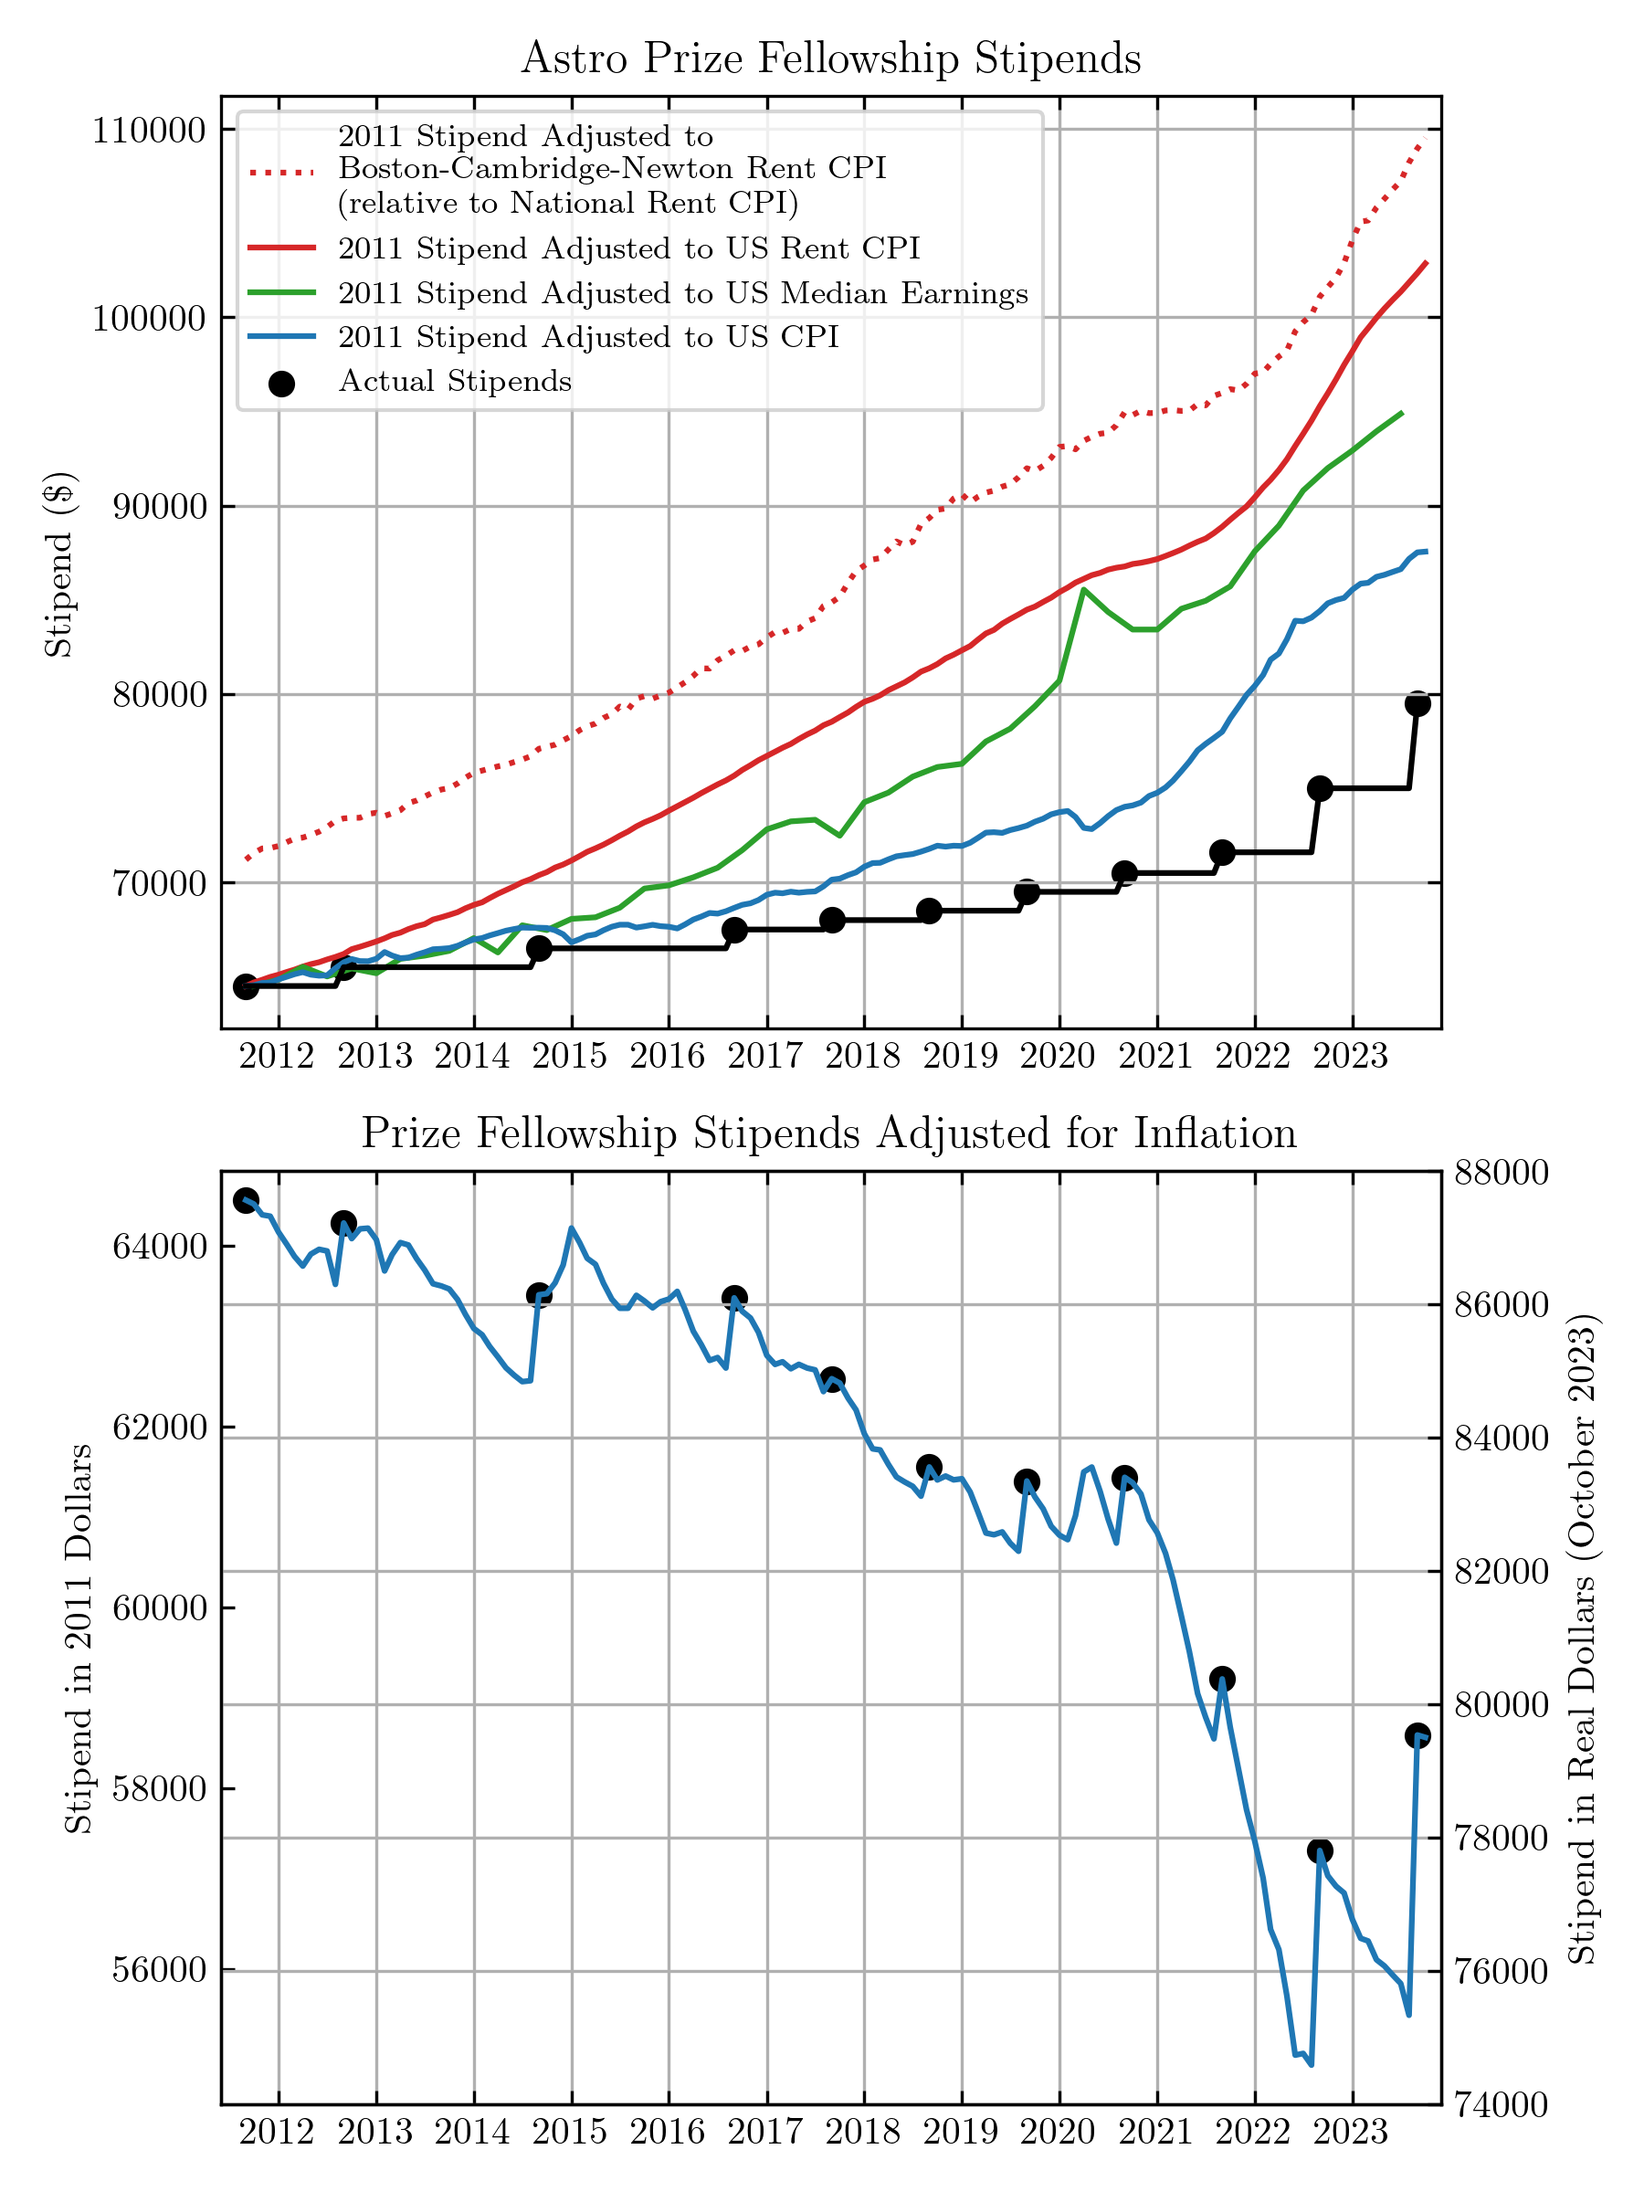
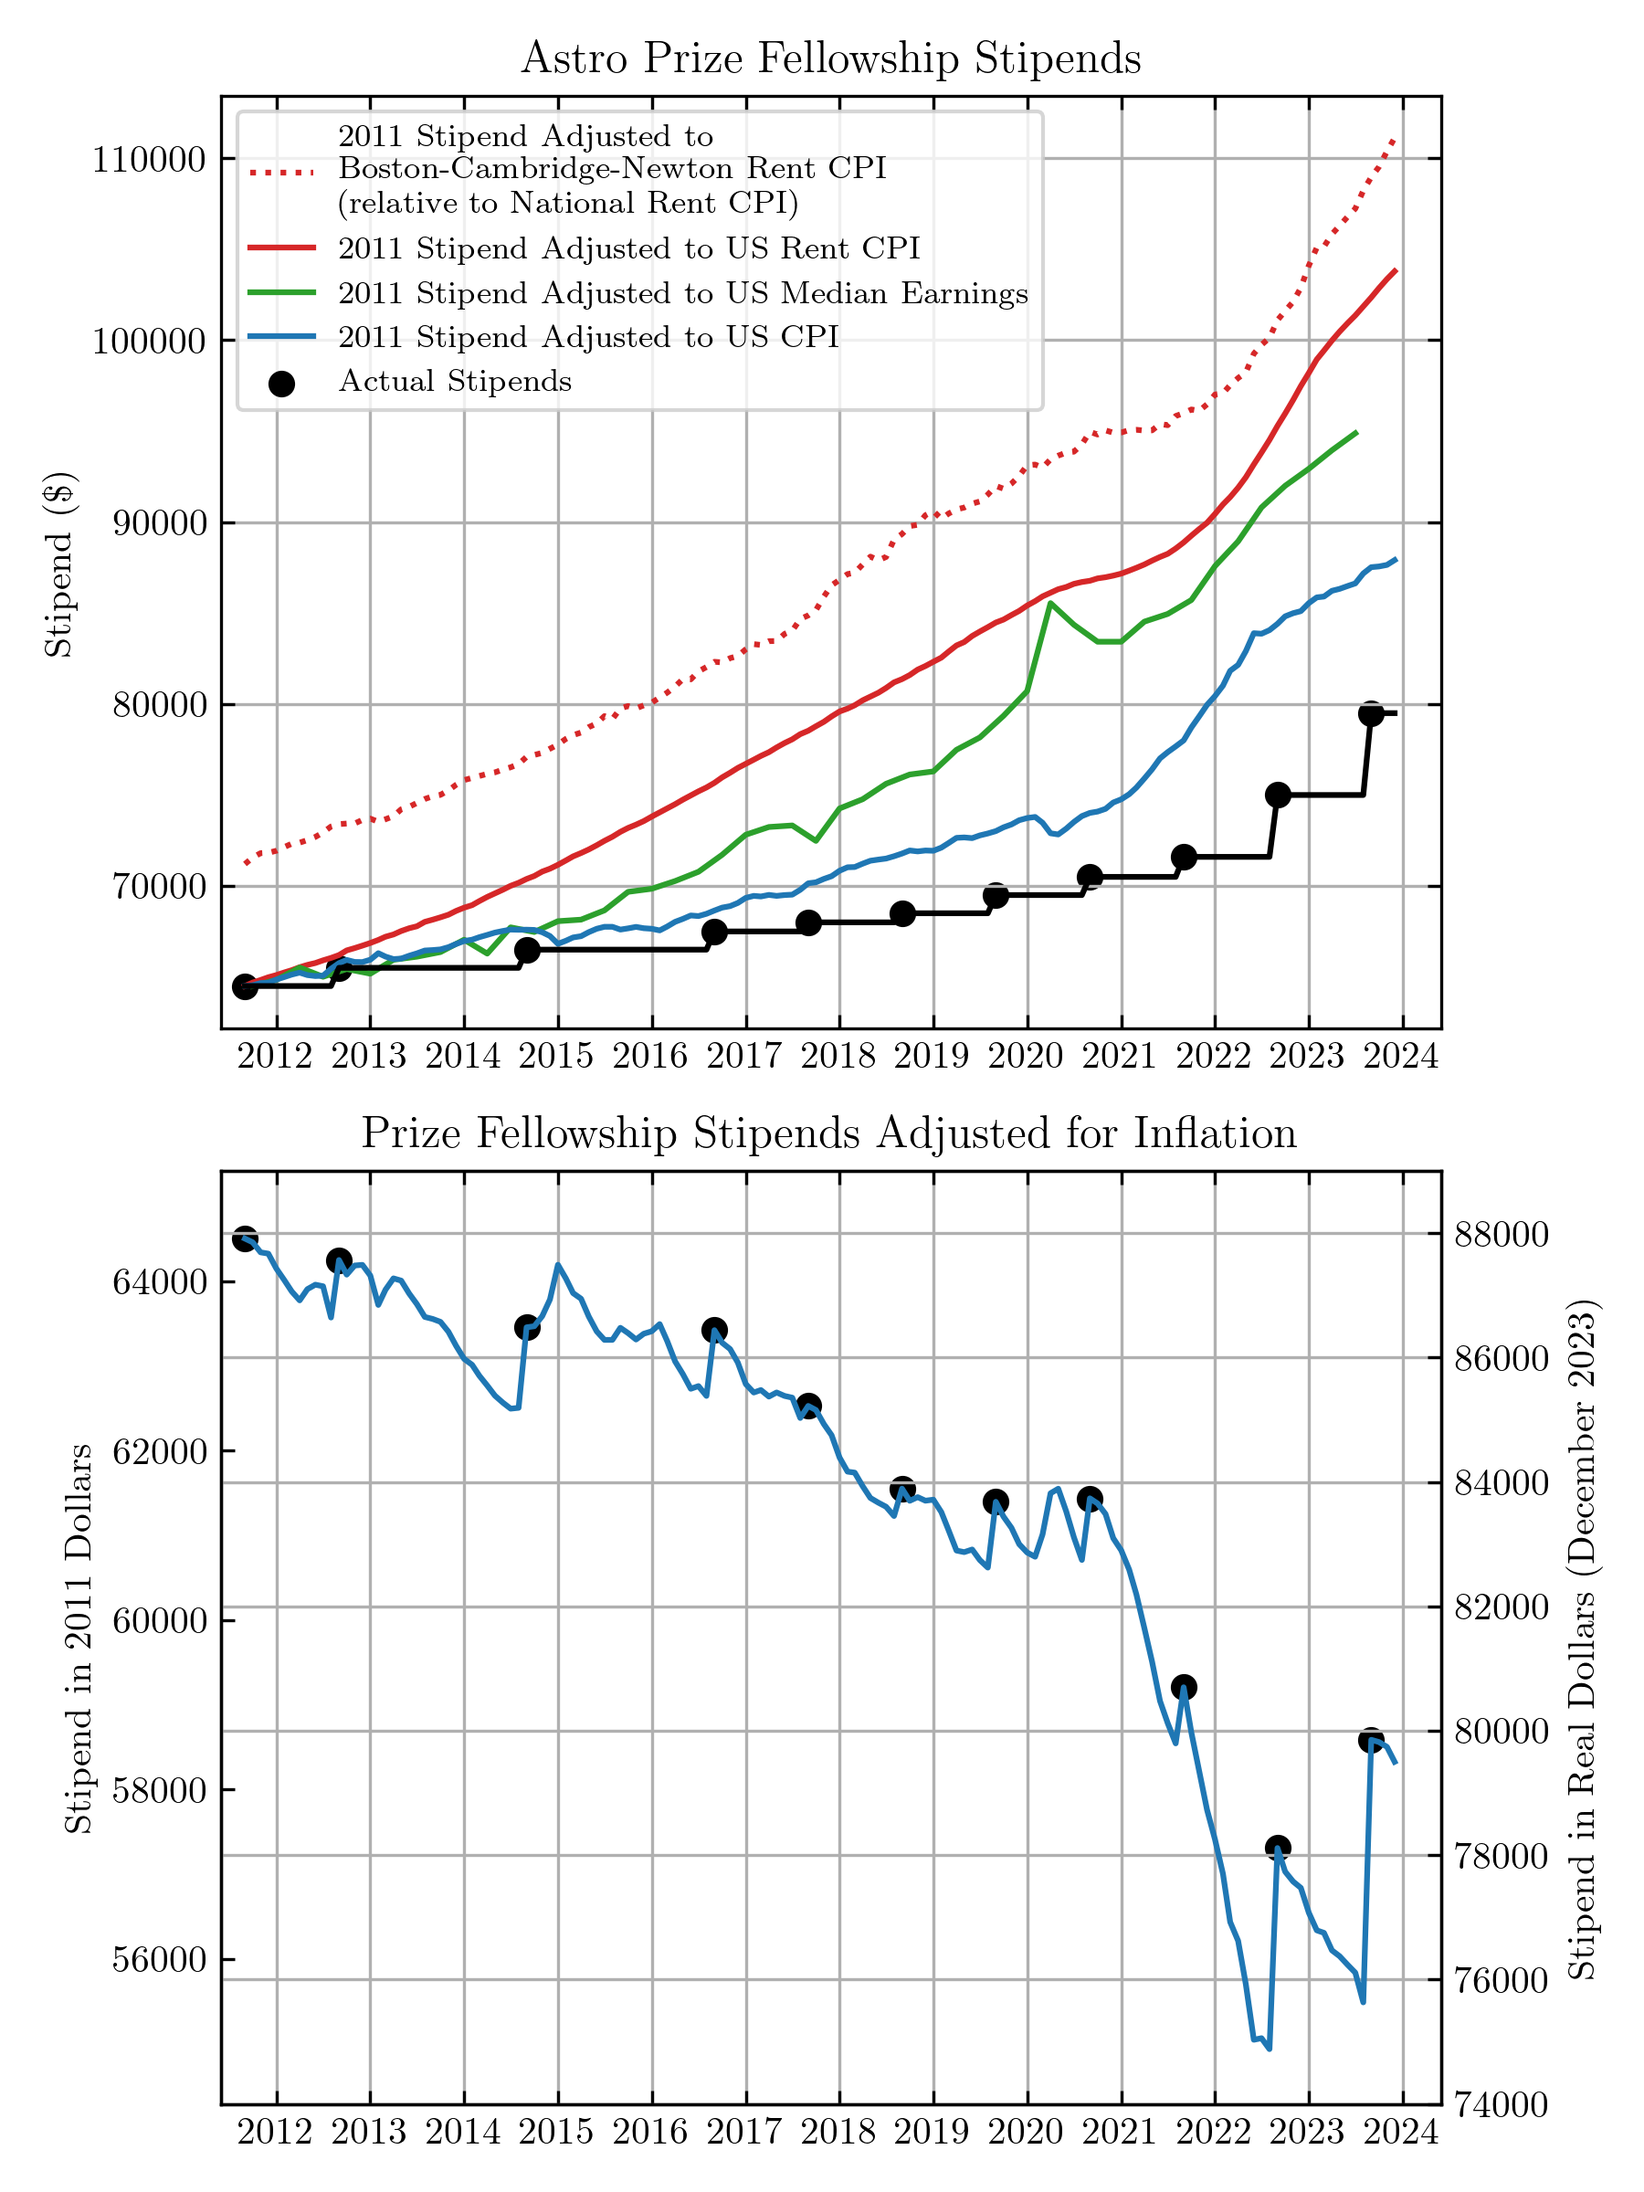
update for December CPI report

diff --git a/plot.py b/plot.py
@@ -83,11 +83,11 @@ ax[0].set_ylabel('Stipend (\$)')
 
 
 ax[1].set_title('Prize Fellowship Stipends Adjusted for Inflation')
-ymax = 88000
+ymax = 89000
 ymin = 74000
 ax2 = ax[1].twinx()
 ax2.set_ylim(ymin,ymax)
-ax2.set_ylabel('Stipend in Real Dollars (October 2023)')
+ax2.set_ylabel('Stipend in Real Dollars (December 2023)')
 ax[1].grid(False,axis='y')
 ax[1].set_ylabel('Stipend in 2011 Dollars')
 ax[1].set_ylim(ymin*cpi[0]/cpi[-1],ymax*cpi[0]/cpi[-1])
@@ -111,11 +111,12 @@ ticks = [dates.datestr2num('2012-01-01'),
          dates.datestr2num('2020-01-01'),
          dates.datestr2num('2021-01-01'),
          dates.datestr2num('2022-01-01'),
-         dates.datestr2num('2023-01-01')]
+         dates.datestr2num('2023-01-01'),
+         dates.datestr2num('2024-01-01')]
 
 date_form = dates.DateFormatter("%Y")
 start = dates.datestr2num('2011-06-01')
-end = dates.datestr2num('2023-12-01')
+end = dates.datestr2num('2024-06-01')
 for a in [ax[0],ax[1],ax2]:
     a.set_xticks(ticks)
     a.xaxis.set_major_formatter(date_form)
